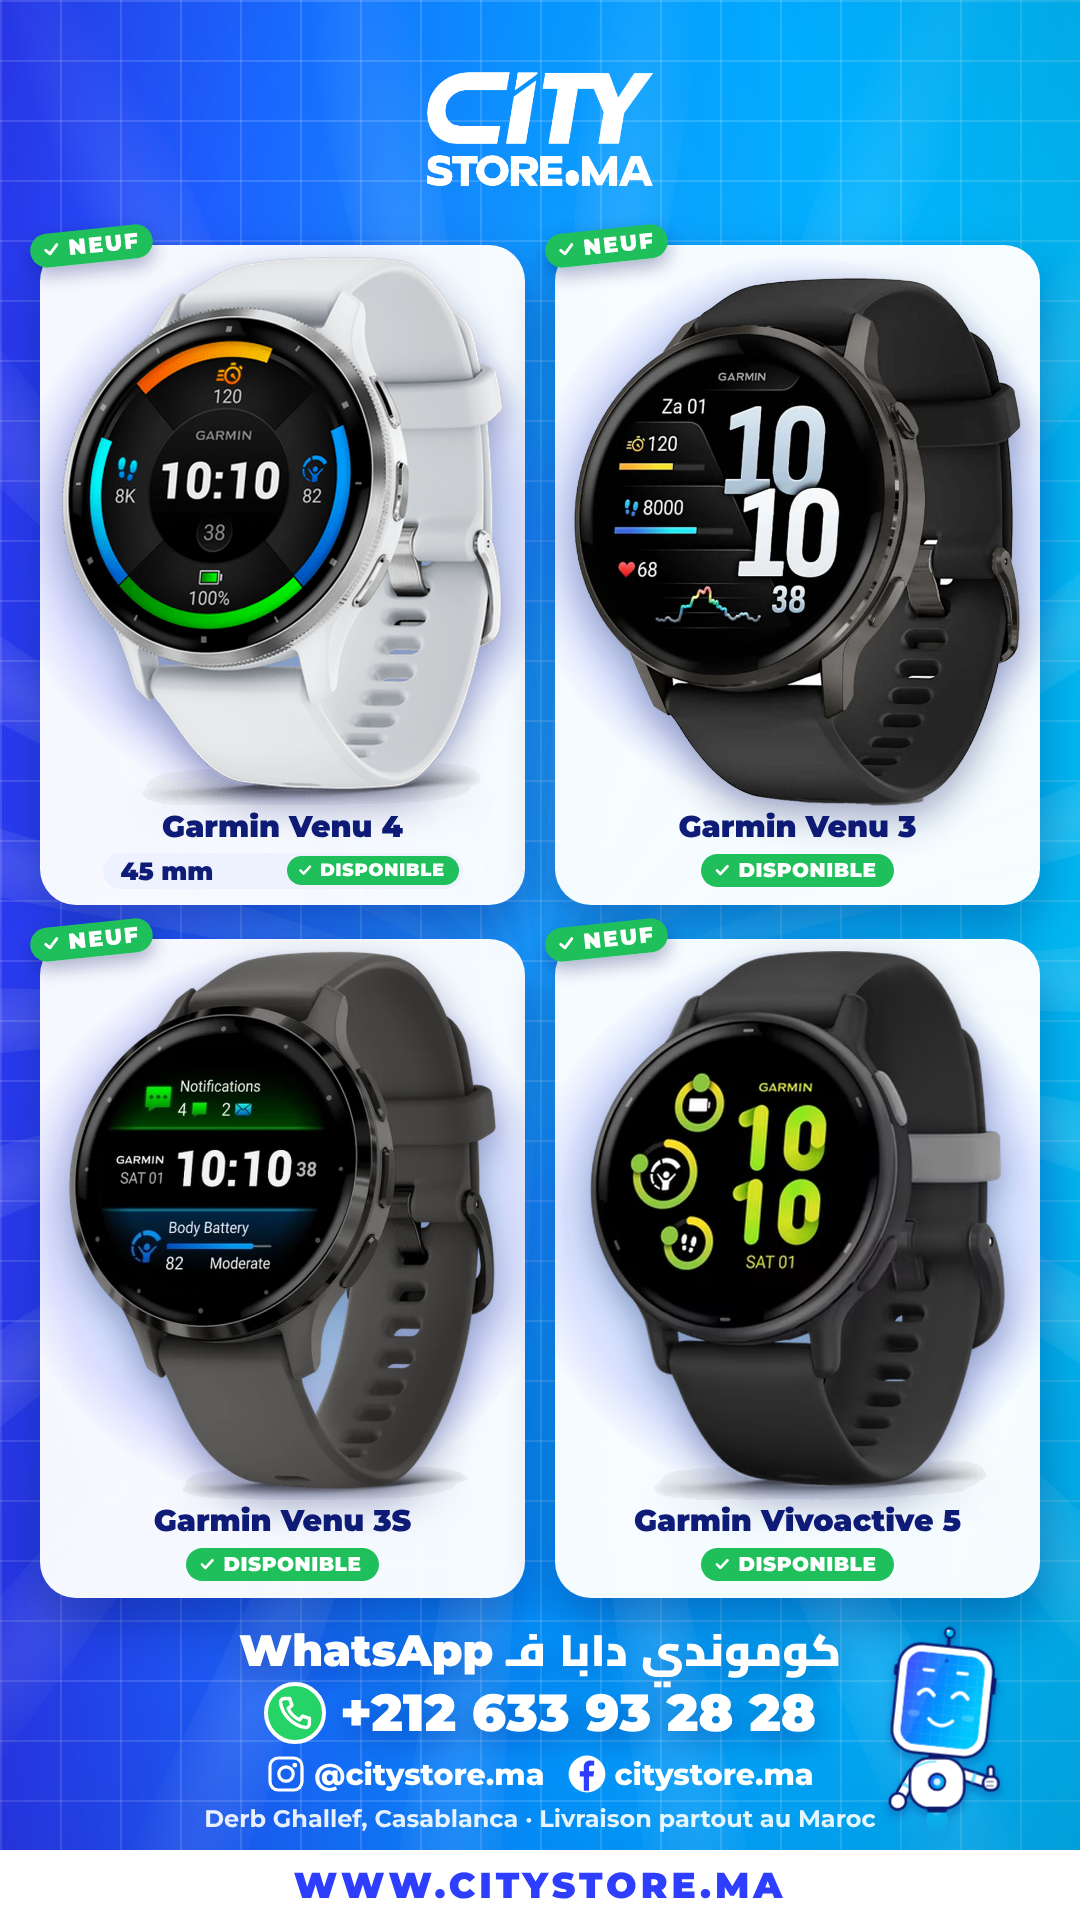
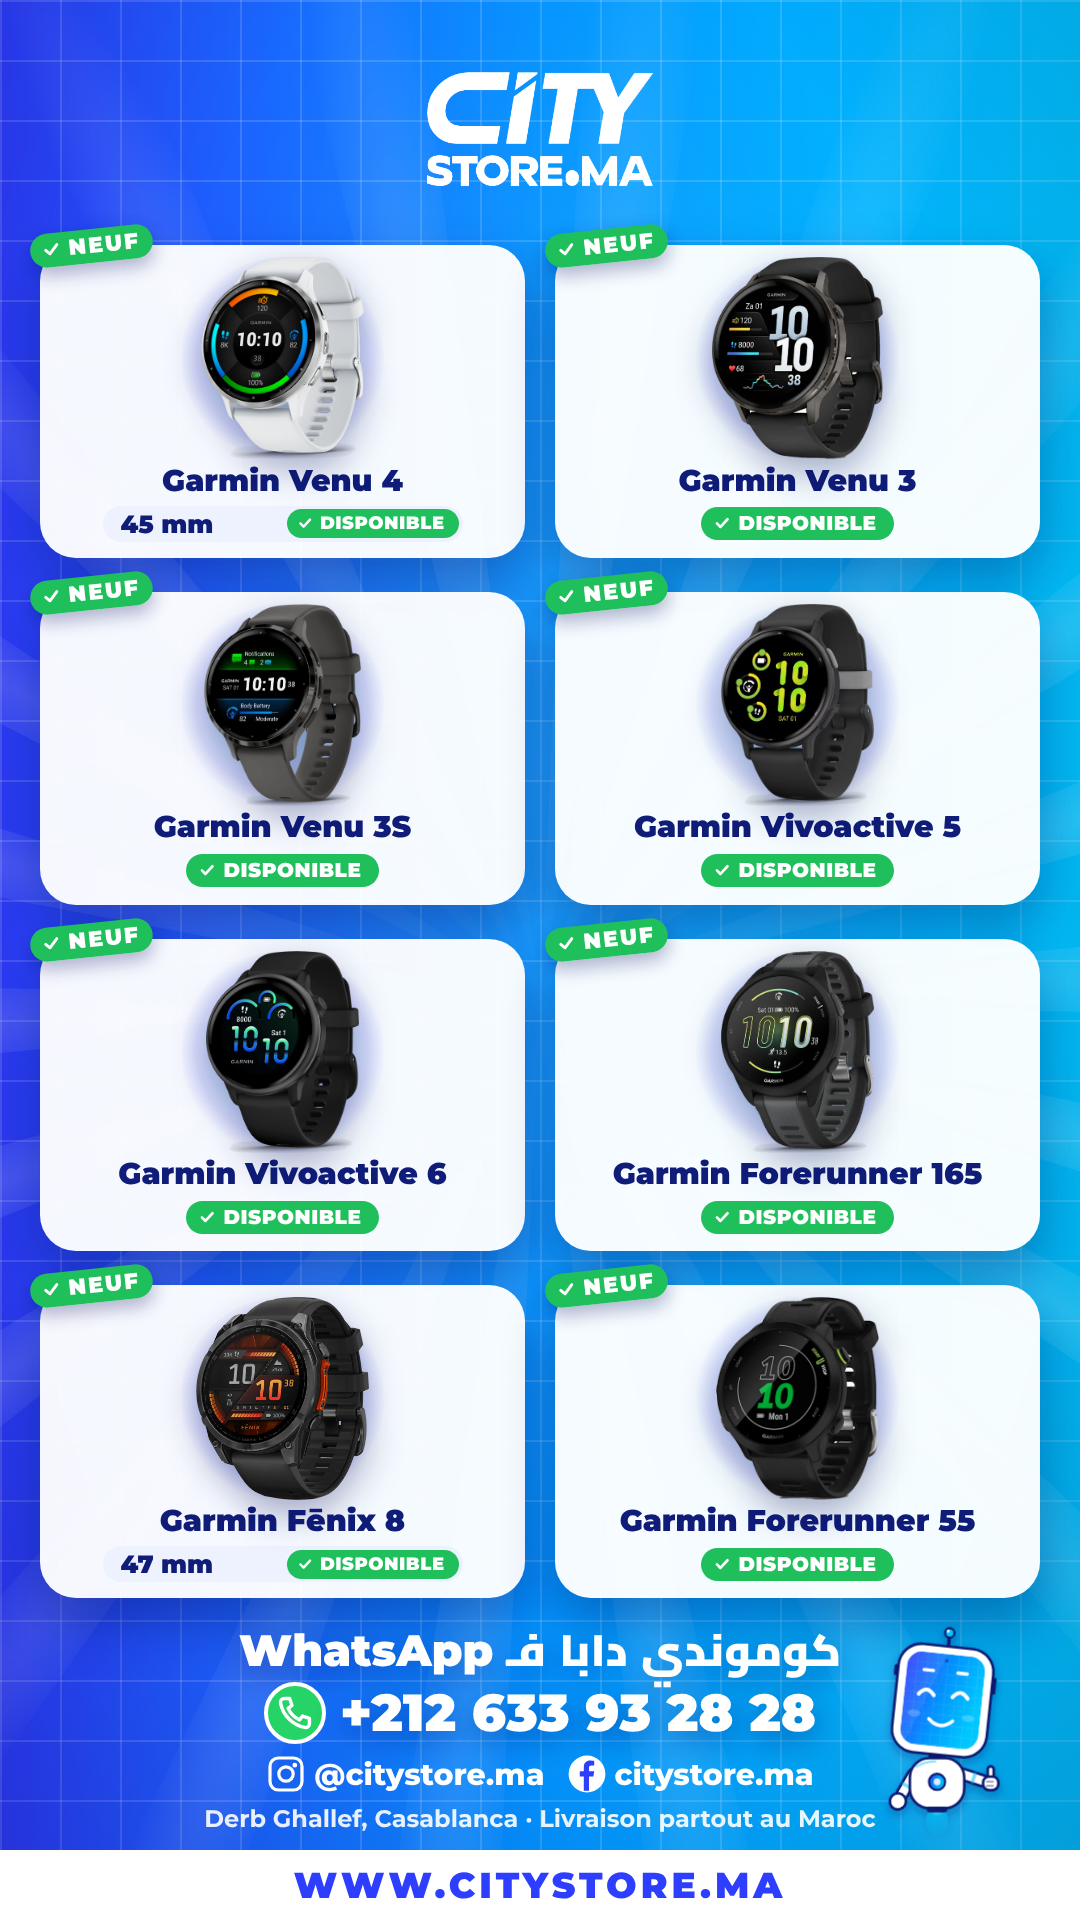
Garmin: story now 8 watches (+ Vivoactive 6, Forerunner 165, Fenix 8 47 mm, Forerunner 55); second 1:1 post
Claude-Session: https://claude.ai/code/session_01B6UvVnyVQqoyQ1GwELGaCV

diff --git a/src/pricelist/lists.ts b/src/pricelist/lists.ts
@@ -80,6 +80,10 @@ export const PRICE_LISTS: Record<string, PriceListProps> = {
       { name: "Garmin Venu 3", img: "pricelist/garmin/venu3.png", stock: [""] },
       { name: "Garmin Venu 3S", img: "pricelist/garmin/venu3s.png", stock: [""] },
       { name: "Garmin Vivoactive 5", img: "pricelist/garmin/vivoactive5.png", stock: [""] },
+      { name: "Garmin Vivoactive 6", img: "pricelist/garmin/vivoactive6.png", stock: [""] },
+      { name: "Garmin Forerunner 165", img: "pricelist/garmin/forerunner165.png", stock: [""] },
+      { name: "Garmin Fēnix 8", img: "pricelist/garmin/fenix8.png", stock: ["47 mm"] },
+      { name: "Garmin Forerunner 55", img: "pricelist/garmin/forerunner55.png", stock: [""] },
     ].map((p) => ({ ...p, condition: "neuf" as const })),
   },
 };
@@ -96,5 +100,6 @@ export const SQUARE_LISTS: Record<string, PriceListProps> = {
   watches: pick("watches", [0, 3, 1, 5]), // Ultra 4, Series 11, Ultra 3, SE 3 (Ultra 2 and Series 10 left out)
   macbooks: pick("macbooks", [0, 1, 2, 3]), // Pro M5 14, Pro M4 14, Air M4 13.6, Air M4 15 (Air M3 and Neo left out)
   samsung: pick("samsung", [0, 2, 3, 4]), // S26 Ultra, S26, A57, A56 (S25 Ultra and A36 left out)
-  garmin: pick("garmin", [0, 1, 2, 3]), // all four
+  garmin: pick("garmin", [0, 1, 2, 3]), // Venu 4, Venu 3, Venu 3S, Vivoactive 5
+  garmin2: pick("garmin", [4, 5, 6, 7]), // Vivoactive 6, Forerunner 165, Fēnix 8, Forerunner 55
 };

diff --git a/assets/pricelist/garmin/SOURCES.md b/assets/pricelist/garmin/SOURCES.md
@@ -6,3 +6,9 @@ downscaled to 1000 px. Image order = the order City Store listed the models.
 - Garmin Venu 3S: `garmin_venu3s.png` (pebble grey / slate) -> `venu3s.png`
 - Garmin Vivoactive 5: `garmin_vivoactive5.png` (black / slate) -> `vivoactive5.png`
 Only the Venu 4 has a size (45 mm, as given); the others show "DISPONIBLE" only.
+- Garmin Vivoactive 6: `garmin_vivoactive6.png` (black) -> `vivoactive6.png`
+- Garmin Forerunner 165: `garmin_forerunner165.png` (black / slate grey) -> `forerunner165.png`
+- Garmin Fēnix 8 47 mm: `garmin_fenix8.png` (slate grey / black) -> `fenix8.png`
+- Garmin Forerunner 55: `garmin_forerunner55.png` (black) -> `forerunner55.png`
+Story = all 8; 1:1 posts: `garmin` (Venu 4, Venu 3, Venu 3S, Vivoactive 5) and `garmin2` (Vivoactive 6, Forerunner 165,
+Fēnix 8, Forerunner 55).
